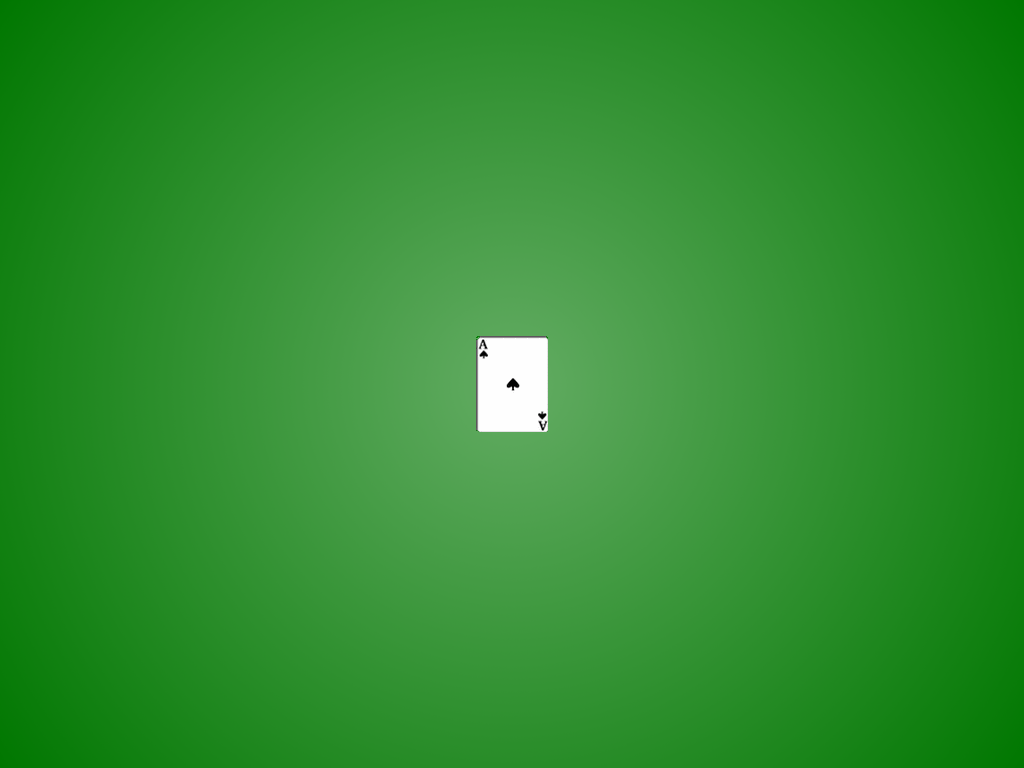
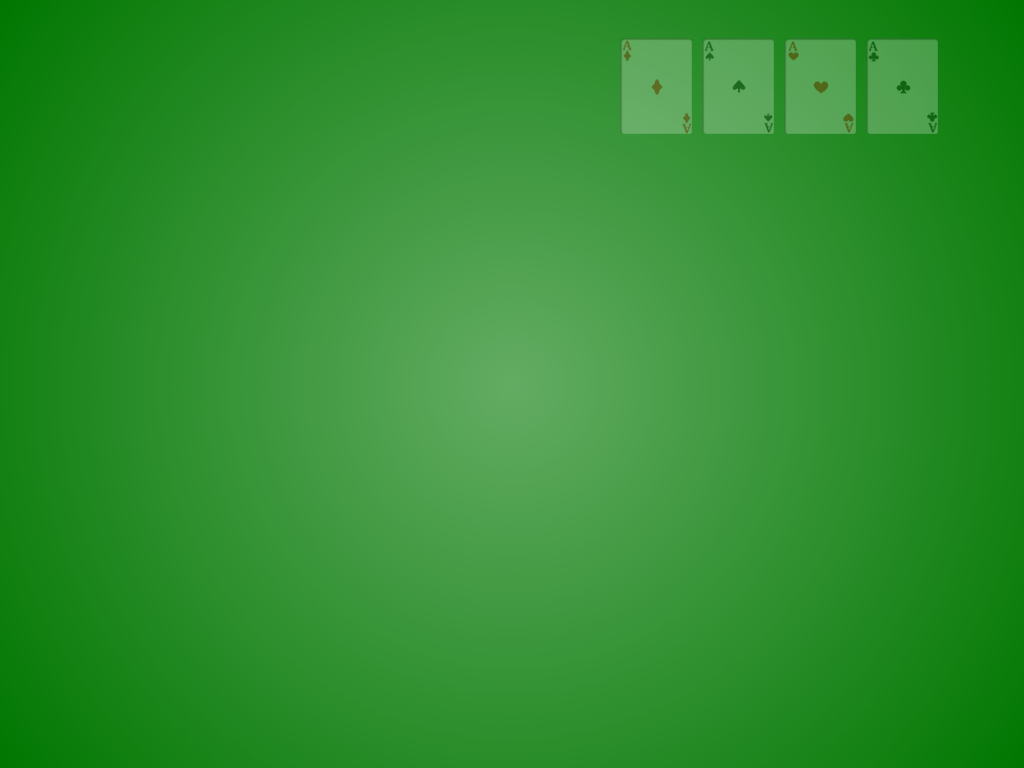
[GLI] *solitaire : background image++

Changed region(s): [[0.5938, 0.0312, 0.9375, 0.1875], [0.4375, 0.4375, 0.5625, 0.5625]]

diff --git a/fr.istic.m2.gli.solitaire/src/presentation/PSolitaire.java b/fr.istic.m2.gli.solitaire/src/presentation/PSolitaire.java
@@ -2,15 +2,21 @@ package presentation;
 
 import java.awt.BorderLayout;
 import java.awt.Color;
+import java.awt.Container;
+import java.awt.Dimension;
 import java.awt.FlowLayout;
-import java.awt.GridLayout;
+import java.awt.Graphics;
+import java.awt.Image;
+import java.io.File;
+import java.io.IOException;
+import java.net.URL;
 
+import javax.imageio.ImageIO;
+import javax.swing.ImageIcon;
 import javax.swing.JFrame;
+import javax.swing.JLabel;
 import javax.swing.JPanel;
 import javax.swing.WindowConstants;
-import javax.swing.border.EmptyBorder;
-
-import solitaire.application.Solitaire;
 
 import controller.CColonne;
 import controller.CSabot;
@@ -24,8 +30,8 @@ public class PSolitaire extends JFrame {
 		CUsine u = new CUsine();
 		CSolitaire jeu = new CSolitaire("Solitaire", u);
 		jeu.initialiser();
-		//jeu.jouer();
-		
+		// jeu.jouer();
+
 		while (!jeu.termine()) {
 		}
 		System.out.println("GAGNE !");
@@ -41,32 +47,43 @@ public class PSolitaire extends JFrame {
 	CTasDeCartesColorees[] piles;
 	private JPanel north;
 	private JPanel center;
-	private JFrame board;
+	private JFrame f;
+
+	Container con = null;
+	JPanel panelBgImg;
 
 	/**
 	 * Create the frame.
 	 */
 	public PSolitaire(CSolitaire s) {
 		this.csolitaire = s;
-		board = new JFrame();
-		board.setDefaultCloseOperation(WindowConstants.EXIT_ON_CLOSE);
-		board.setTitle("Solitaire - Destouches Lacroix");
+		f = new JFrame();
+		f.setDefaultCloseOperation(WindowConstants.EXIT_ON_CLOSE);
+		f.setTitle("Solitaire - Destouches Lacroix");
+		
+		JLabel board = new JLabel(new ImageIcon("W:\\ISTIC_M2GL\\fr.istic.m2.gli.solitaire\\bin\\backgroundImage\\back.png"));
+		
+		
+
 
 		board.setLayout(new BorderLayout());
 
 		north = new JPanel();
 		FlowLayout nfl = new FlowLayout(FlowLayout.LEADING);
 		north.setLayout(nfl);
+		north.setOpaque(false);
 
 		center = new JPanel();
 		center.setLayout(new FlowLayout());
-
+		center.setOpaque(false);
 		board.add(north, BorderLayout.NORTH);
 
 		board.add(center, BorderLayout.CENTER);
-
-		board.setBackground(Color.RED);
 		board.setVisible(true);
+		board.setOpaque(true);
+		f.add(board);
+		f.setVisible(true);
+
 		validate();
 	}
 
@@ -80,6 +97,7 @@ public class PSolitaire extends JFrame {
 		for (CTasDeCartesColorees t : piles) {
 			PTasDeCartesColorees p = t.getPresentation();
 			p.setBackground(Color.GRAY);
+
 			p.setVisible(true);
 			north.add(p);
 		}
@@ -96,11 +114,13 @@ public class PSolitaire extends JFrame {
 			center.add(p);
 			n++;
 		}
-		center.setSize((7*(80+10)),(20+(7*7)+(13*15)));
+		center.setSize((7 * (80 + 10)), (20 + (7 * 7) + (13 * 15)));
 		center.setPreferredSize(center.getSize());
-		
-		board.setSize(1024, 768);
-		board.setPreferredSize(board.getSize());
+
+		f.setSize(1024, 768);
+		f.setMaximumSize(f.getSize());
+		f.setMinimumSize(f.getSize());
+		f.setPreferredSize(f.getSize());
 	}
 
 }

diff --git a/fr.istic.m2.gli.solitaire/src/presentation/PSabot.java b/fr.istic.m2.gli.solitaire/src/presentation/PSabot.java
@@ -44,7 +44,8 @@ public class PSabot extends JPanel {
 		this.setSize(80+(20*26),120);
 		this.setPreferredSize(this.getSize());
 		this.setLayout(new FlowLayout(FlowLayout.LEADING));
-		
+		this.setOpaque(false);
+
 		sl = new SabotListener();
 		setVisible(true);
 		

diff --git a/fr.istic.m2.gli.solitaire/src/presentation/PTasDeCartesColorees.java b/fr.istic.m2.gli.solitaire/src/presentation/PTasDeCartesColorees.java
@@ -45,6 +45,7 @@ public class PTasDeCartesColorees extends PTasDeCartes {
 	public PTasDeCartesColorees(ICTasDeCartes cTas) {
 		super(cTas);
 		ctdcc = (CTasDeCartesColorees) cTas;
+		this.setOpaque(false);
 
 		// DRAG
 		dgl = new DragGestureListener() {

diff --git a/fr.istic.m2.gli.solitaire/src/presentation/PColonne.java b/fr.istic.m2.gli.solitaire/src/presentation/PColonne.java
@@ -66,6 +66,7 @@ public class PColonne extends JPanel {
 
 		this.setSize(100, 500);
 		this.setPreferredSize(this.getSize());
+		this.setOpaque(false);
 		setVisible(true);
 
 		// DRAG

diff --git a/fr.istic.m2.gli.solitaire/src/presentation/PTasDeCartes.java b/fr.istic.m2.gli.solitaire/src/presentation/PTasDeCartes.java
@@ -29,7 +29,6 @@ public class PTasDeCartes extends JPanel implements Transferable {
 		
 		
 		// this.setBackground(Color.GRAY);
-		
 		this.setVisible(true);
 	}
 	
